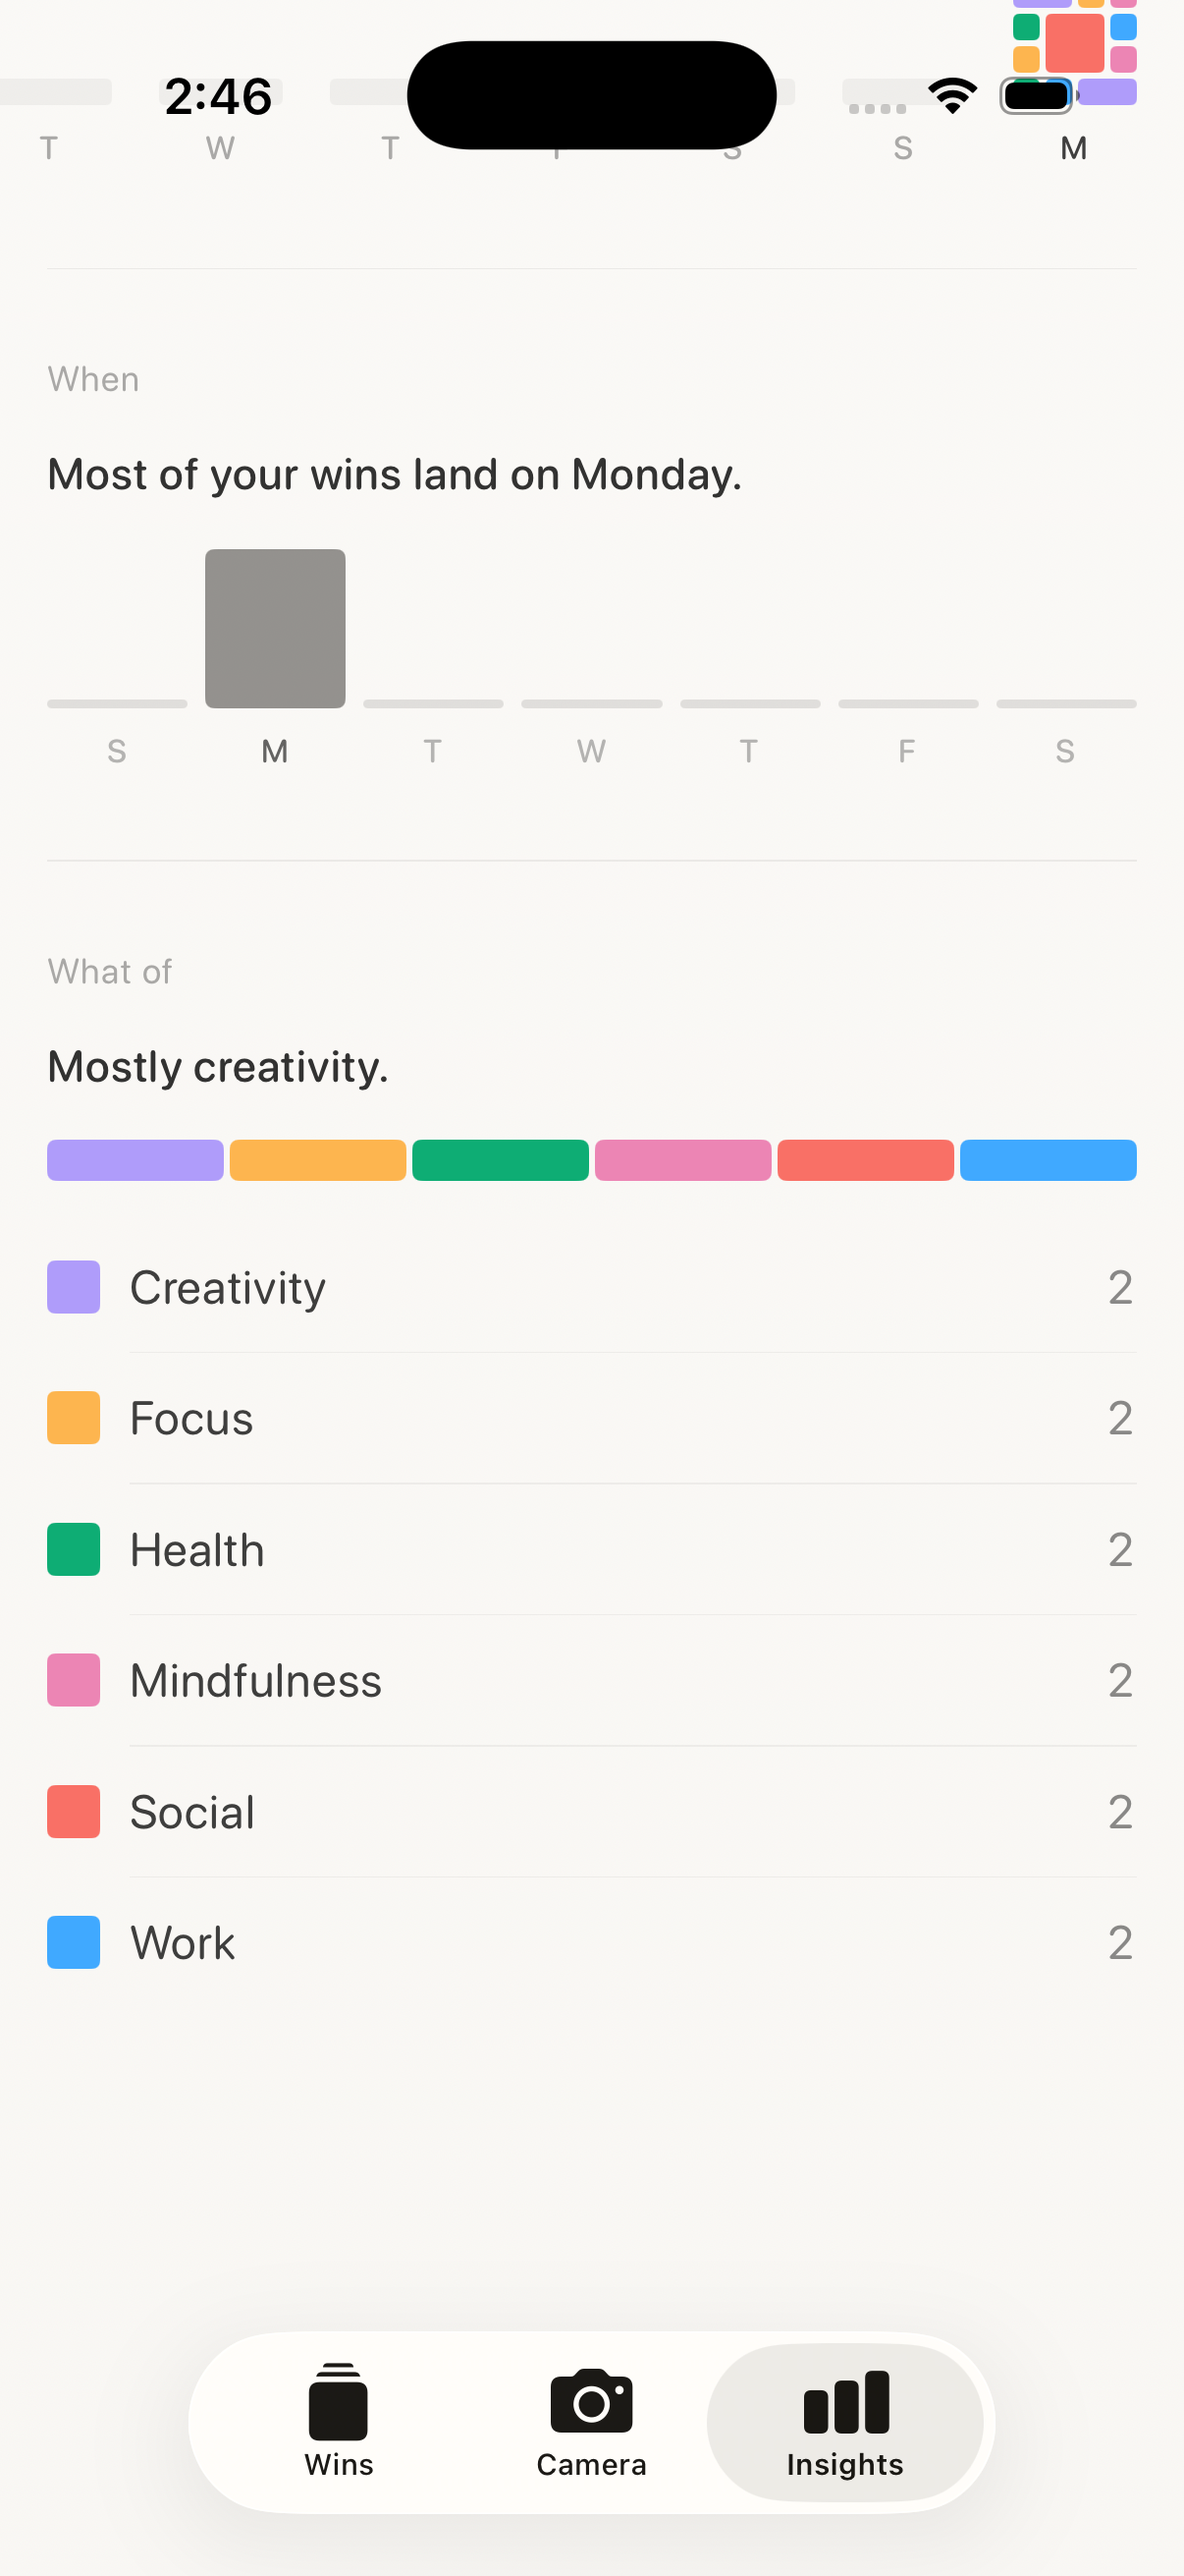
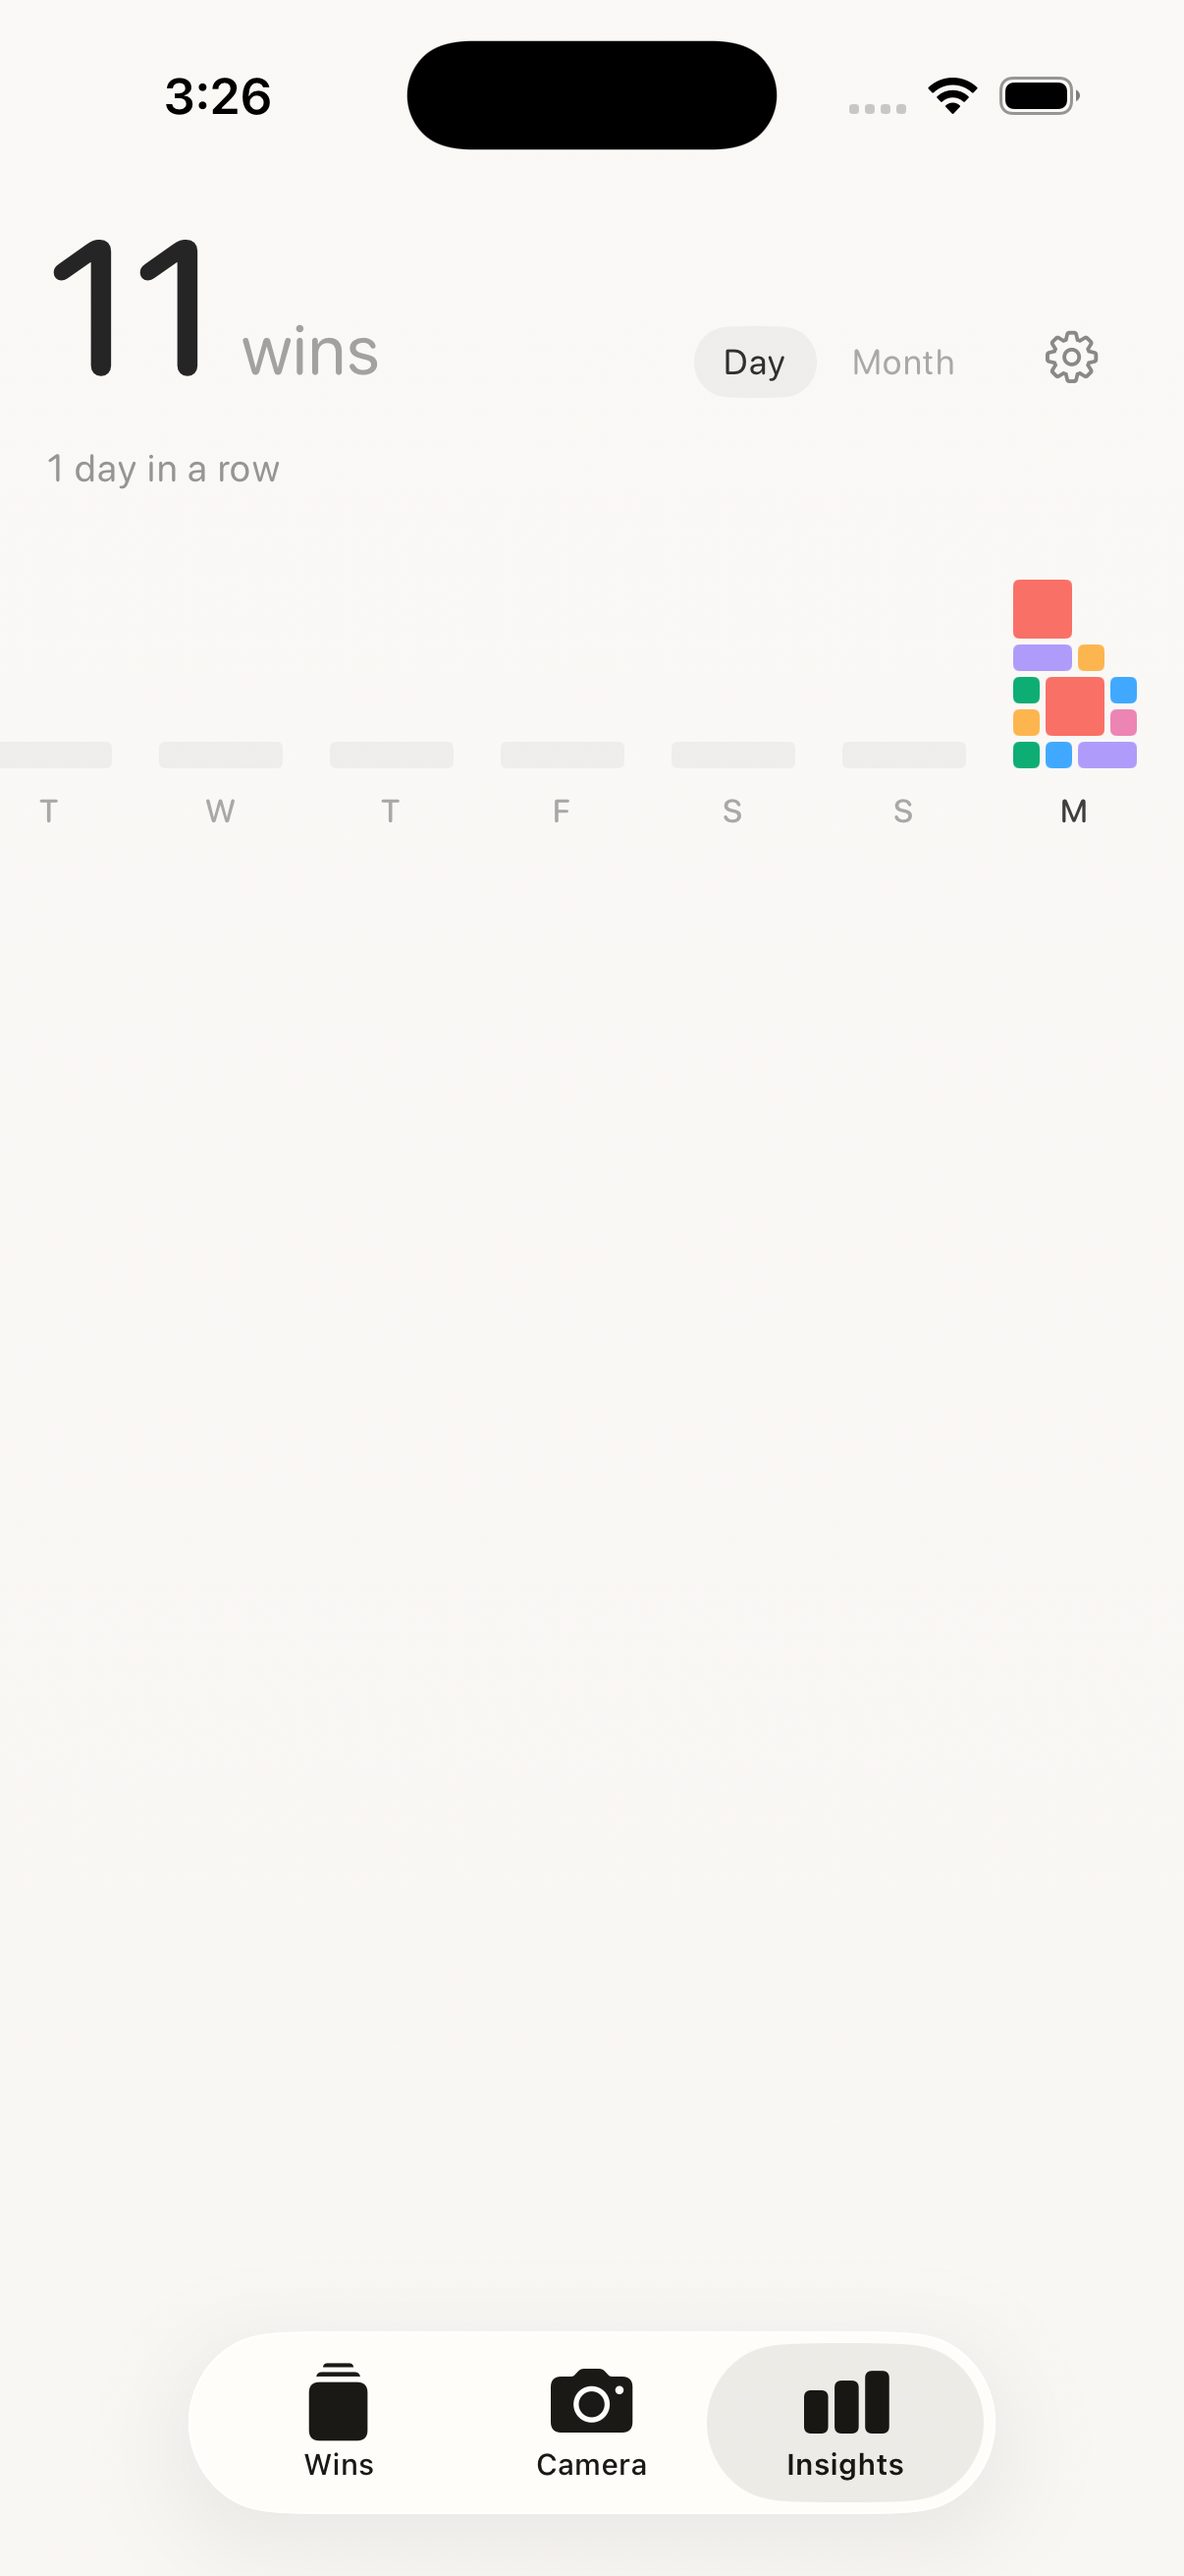
Named blocks merge, one text size, and Insights is just the chart
**Named blocks merge now, and the architecture did hold.** The rule was
unnamed-only, on the reasoning that one object should not carry several
labels. Too cautious: the SHAPE is what says these belong together, and
the labels sit on it the way words sit on a wall — the wall is still one
wall. Seven green blocks with seven titles read as one green shape with
seven things written on it, which is what it is.

A member now draws its LABEL and nothing else. The surface — fill, rim,
band, shadow — is still drawn once by `MergedGroupView`, so there is no
second outline through the middle of one shape; the member just stopped
being entirely invisible, which is what it had to be back when it had
nothing to say.

Photos still do not merge. A block wearing a photograph is not the
colour it would have to become, and half a merged shape showing an image
is two objects pretending to be one.

**One text size on every block.** `minimumScaleFactor` was shrinking
titles to fit, so a tower of ten blocks could carry six different text
sizes — and size reads as emphasis nobody chose, which made the shortest
title look like the most important one. Same size everywhere now, and
the long ones end in an ellipsis, which is honest.

**Insights is the chart.** "When" and "What of" were honest readings and
they were still a second and third idea competing with the first, and a
page with three ideas has no main one. What is left is your towers, side
by side, at whatever span you asked for.
[…]

diff --git a/Strata/Views/InsightsView.swift b/Strata/Views/InsightsView.swift
@@ -38,13 +38,16 @@ struct InsightsView: View {
                 if completedLogs.isEmpty {
                     emptyState
                 } else {
+                    // The chart, and nothing under it.
+                    //
+                    // "When" and "What of" were two more things to read on a
+                    // page whose one job is to show you the towers. They were
+                    // honest readings, and they were still a second and third
+                    // idea competing with the first — and a page with three
+                    // ideas has no main one. This is the tab now: your towers,
+                    // side by side, at whatever span you asked for.
                     chartSection
-                        .padding(.top, 22)
-
-                    divider
-                    rhythmSection
-                    divider
-                    mixSection
+                        .padding(.top, 26)
                 }
             }
             .padding(.top, 4)
@@ -99,29 +102,10 @@ struct InsightsView: View {
         }
     }
 
-    private var divider: some View {
-        Rectangle()
-            .fill(.primary.opacity(0.06))
-            .frame(height: 0.5)
-            .padding(.horizontal, GridConstants.horizontalPadding)
-            .padding(.vertical, 30)
-    }
 
-    private func sectionTitle(_ text: String) -> some View {
-        Text(text)
-            .font(Typography.caption)
-            .foregroundStyle(.primary.opacity(0.32))
-            .padding(.horizontal, GridConstants.horizontalPadding)
-    }
 
     /// The sentence a section is there to say. Plain language, because a number
     /// with a label beside it is a metric and a sentence is an answer.
-    private func sectionLine(_ text: String) -> some View {
-        Text(text)
-            .font(Typography.headerSmall)
-            .foregroundStyle(.primary.opacity(0.80))
-            .padding(.horizontal, GridConstants.horizontalPadding)
-    }
 
     // MARK: - How much
 
@@ -130,119 +114,6 @@ struct InsightsView: View {
             columns: chartColumns,
             maxRows: max(chartColumns.map(\.rows).max() ?? 0, 4)
         )
-    }
-
-    // MARK: - When
-
-    /// Which day of the week you actually do things on.
-    ///
-    /// Averaged per weekday rather than totalled, or a Monday that has come
-    /// round twice as often as a Sunday wins by arithmetic rather than by
-    /// habit.
-    private var rhythmSection: some View {
-        let totals = weekdayAverages
-        let best = totals.enumerated().max { $0.element < $1.element }
-        let peak = totals.max() ?? 0
-        let names = Calendar.current.weekdaySymbols
-
-        return VStack(alignment: .leading, spacing: 16) {
-            sectionTitle("When")
-            sectionLine(
-                peak > 0 && best != nil
-                    ? "Most of your wins land on \(names[best!.offset])."
-                    : "Not enough yet to see a pattern."
-            )
-
-            HStack(alignment: .bottom, spacing: 6) {
-                ForEach(Array(totals.enumerated()), id: \.offset) { index, value in
-                    VStack(spacing: 8) {
-                        // A column, not a dot: the same shape as everything
-                        // else that counts on this page, at the smallest size
-                        // it still reads at.
-                        RoundedRectangle(cornerRadius: 3, style: .continuous)
-                            .fill(
-                                index == best?.offset && peak > 0
-                                    ? AppColors.warmBlack.opacity(0.55)
-                                    : AppColors.warmBlack.opacity(0.14)
-                            )
-                            .frame(height: max(peak > 0 ? 54 * (value / peak) : 0, 3))
-                        Text(String(names[index].prefix(1)))
-                            .font(Typography.caption2)
-                            .foregroundStyle(.primary.opacity(index == best?.offset ? 0.6 : 0.28))
-                    }
-                    .frame(maxWidth: .infinity)
-                    .accessibilityElement(children: .ignore)
-                    .accessibilityLabel("\(names[index]): \(String(format: "%.1f", value)) a day")
-                }
-            }
-            .frame(height: 76, alignment: .bottom)
-            .padding(.horizontal, GridConstants.horizontalPadding)
-        }
-    }
-
-    // MARK: - What of
-
-    /// The mix, as one bar of the tower's own colours.
-    ///
-    /// No legend and no labels on the bar: the colours ARE the categories, and
-    /// anyone reading this page has been looking at them on the tower. The list
-    /// under it names them once, in the order they actually appear.
-    private var mixSection: some View {
-        let mix = categoryMix
-        let total = mix.reduce(0) { $0 + $1.count }
-
-        return VStack(alignment: .leading, spacing: 16) {
-            sectionTitle("What of")
-            sectionLine(
-                mix.first.map { "Mostly \($0.category.rawValue)." } ?? "Nothing yet."
-            )
-
-            VStack(alignment: .leading, spacing: 14) {
-                GeometryReader { geo in
-                    HStack(spacing: 2) {
-                        ForEach(mix, id: \.category) { slice in
-                            RoundedRectangle(cornerRadius: 3, style: .continuous)
-                                .fill(slice.category.style.baseColor)
-                                .frame(
-                                    width: max(
-                                        (geo.size.width - CGFloat(max(mix.count - 1, 0)) * 2)
-                                            * CGFloat(slice.count) / CGFloat(max(total, 1)),
-                                        3
-                                    )
-                                )
-                        }
-                    }
-                }
-                .frame(height: 14)
-
-                VStack(spacing: 0) {
-                    ForEach(Array(mix.enumerated()), id: \.element.category) { index, slice in
-                        HStack(spacing: 10) {
-                            RoundedRectangle(cornerRadius: 18 * 0.147, style: .continuous)
-                                .fill(slice.category.style.baseColor)
-                                .frame(width: 18, height: 18)
-                            Text(slice.category.rawValue.capitalized)
-                                .font(Typography.bodyMedium)
-                                .foregroundStyle(.primary.opacity(0.75))
-                            Spacer(minLength: 0)
-                            Text("\(slice.count)")
-                                .font(Typography.bodyMedium)
-                                .monospacedDigit()
-                                .foregroundStyle(.primary.opacity(0.45))
-                        }
-                        .frame(minHeight: 44)
-
-                        if index != mix.count - 1 {
-                            Rectangle()
-                                .fill(.primary.opacity(0.05))
-                                .frame(height: 0.5)
-                                .padding(.leading, 28)
-                        }
-                    }
-                }
-            }
-            .padding(.horizontal, GridConstants.horizontalPadding)
-        }
     }
 
     // MARK: - Empty
@@ -296,33 +167,7 @@ struct InsightsView: View {
         return count
     }
 
-    /// Average wins per weekday, indexed 0 = the calendar's first weekday.
-    private var weekdayAverages: [Double] {
-        let calendar = Calendar.current
-        var totals = [Double](repeating: 0, count: 7)
-        var occurrences = [Set<String>](repeating: [], count: 7)
 
-        for log in completedLogs {
-            guard let date = Self.dateFormatter.date(from: log.dateString) else { continue }
-            // `weekday` is 1-based from Sunday; the symbols array the labels
-            // come from is 0-based from the locale's first weekday.
-            let index = (calendar.component(.weekday, from: date) - calendar.firstWeekday + 7) % 7
-            totals[index] += 1
-            occurrences[index].insert(log.dateString)
-        }
-        return (0..<7).map { totals[$0] / Double(max(occurrences[$0].count, 1)) }
-    }
-
-    private var categoryMix: [(category: HabitCategory, count: Int)] {
-        var counts: [HabitCategory: Int] = [:]
-        for log in completedLogs {
-            guard let habit = log.habit else { continue }
-            counts[habit.displayCategory, default: 0] += 1
-        }
-        return counts
-            .map { (category: $0.key, count: $0.value) }
-            .sorted { $0.count == $1.count ? $0.category.rawValue < $1.category.rawValue : $0.count > $1.count }
-    }
 
     /// One column per period, most recent last.
     ///

diff --git a/Strata/Views/FlippableBlockView.swift b/Strata/Views/FlippableBlockView.swift
@@ -83,8 +83,28 @@ struct FlippableBlockView: View {
         // so the block disappears on exactly the frame the group takes over.
         // With the colours identical and the chrome already stripped, that swap
         // has nothing left to see.
-        blockBody
-            .opacity(isGroupMember ? 0 : 1)
+        Group {
+            if isGroupMember {
+                // A member draws its LABEL and nothing else.
+                //
+                // The run's surface — the fill, the rim, the band, the shadow
+                // — is drawn once by `MergedGroupView`, so a member drawing
+                // its own would put a second outline through the middle of one
+                // shape. But now that named blocks merge, it still has
+                // something to say: the words sit on the merged surface the
+                // way words sit on a wall, and the wall is still one wall.
+                BlockContentOverlay(
+                    title: block.habit.title,
+                    category: block.habit.category,
+                    rowSpan: block.rowSpan,
+                    timeText: nil,
+                    hasImage: false
+                )
+                .frame(width: width, height: height)
+            } else {
+                blockBody
+            }
+        }
             // The tap belongs to the BLOCK, not to its chrome.
             //
             // It used to be attached inside `chromedBody`, which a merged

diff --git a/Strata/Models/BlockMerge.swift b/Strata/Models/BlockMerge.swift
@@ -62,10 +62,20 @@ enum BlockMerge {
     /// unioned. Working in cells rather than blocks means a 2x2 and a 1x1 merge
     /// correctly without any special case.
     static func groups(for blocks: [PlacedBlock]) -> [MergeGroup] {
-        let mergeable = blocks.filter { block in
-            block.log.imageFileName == nil
-                && (block.habit.title == QuickWinService.untitled || block.habit.title.isEmpty)
-        }
+        // Named blocks merge too.
+        //
+        // The rule used to be unnamed-only, on the reasoning that a merged run
+        // is one object and one object should not carry several labels. That
+        // was too cautious: the shape is what says "these belong together",
+        // and the labels sit ON it the way words sit on a wall — the wall is
+        // still one wall. A run of four green blocks with four short titles
+        // reads as one green shape with four things written on it, which is
+        // exactly what it is.
+        //
+        // Photos still cannot merge. A block wearing a photograph is not the
+        // colour it would have to become, and half a merged shape showing an
+        // image is two objects pretending to be one.
+        let mergeable = blocks.filter { $0.log.imageFileName == nil }
         guard mergeable.count > 1 else { return [] }
 
         var cellOwner: [GridCell: PlacedBlock] = [:]

diff --git a/Strata/Views/HabitBlockView.swift b/Strata/Views/HabitBlockView.swift
@@ -207,8 +207,17 @@ struct BlockContentOverlay: View {
                     Text(title)
                         .font(.system(size: 14, weight: .medium, design: .rounded))
                         .foregroundStyle(.white)
+                        // One size on every block, and an ellipsis when it
+                        // does not fit.
+                        //
+                        // `minimumScaleFactor` shrank the type to fit, so a
+                        // tower of ten blocks could carry six different text
+                        // sizes and the size read as emphasis nobody had
+                        // chosen — the shortest title looked the most
+                        // important. Truncation is honest: same size
+                        // everywhere, and the ones that run long say so.
                         .lineLimit(rowSpan > 1 ? 2 : 1)
-                        .minimumScaleFactor(0.65)
+                        .truncationMode(.tail)
                         // On a photo the scrim is a light veil now, so the type
                         // carries its own contrast instead of the block being
                         // darkened until anything would be legible on it.

diff --git a/Strata/Services/DebugHarness.swift b/Strata/Services/DebugHarness.swift
@@ -150,9 +150,12 @@ enum DebugHarness {
         // deliberately avoids clustering, so a normal seed rarely produces two
         // adjacent blocks of one colour to look at.
         let mono = Int(argument("-strataSeedMono") ?? "0") ?? 0
+        // NAMED, since named blocks merge now. Unnamed ones only exercise the
+        // old path, where a member had nothing to draw.
         for i in 0..<mono {
             try? QuickWinService.logWin(
-                title: "", category: .health,
+                title: titles[i % titles.count],
+                category: .health,
                 size: sizes[i % sizes.count],
                 context: context, tower: tower
             )
